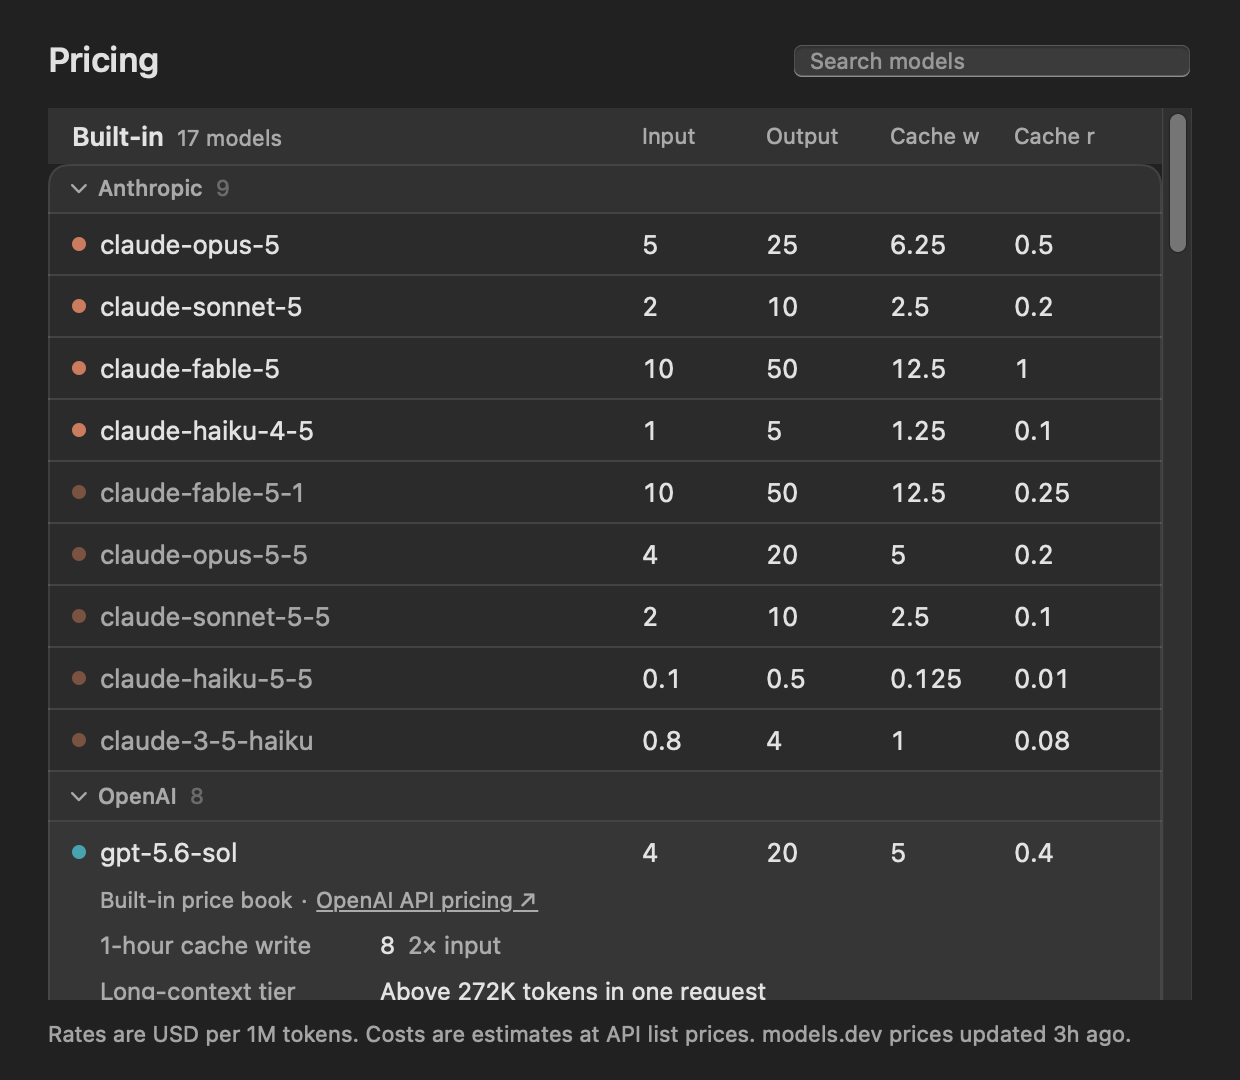
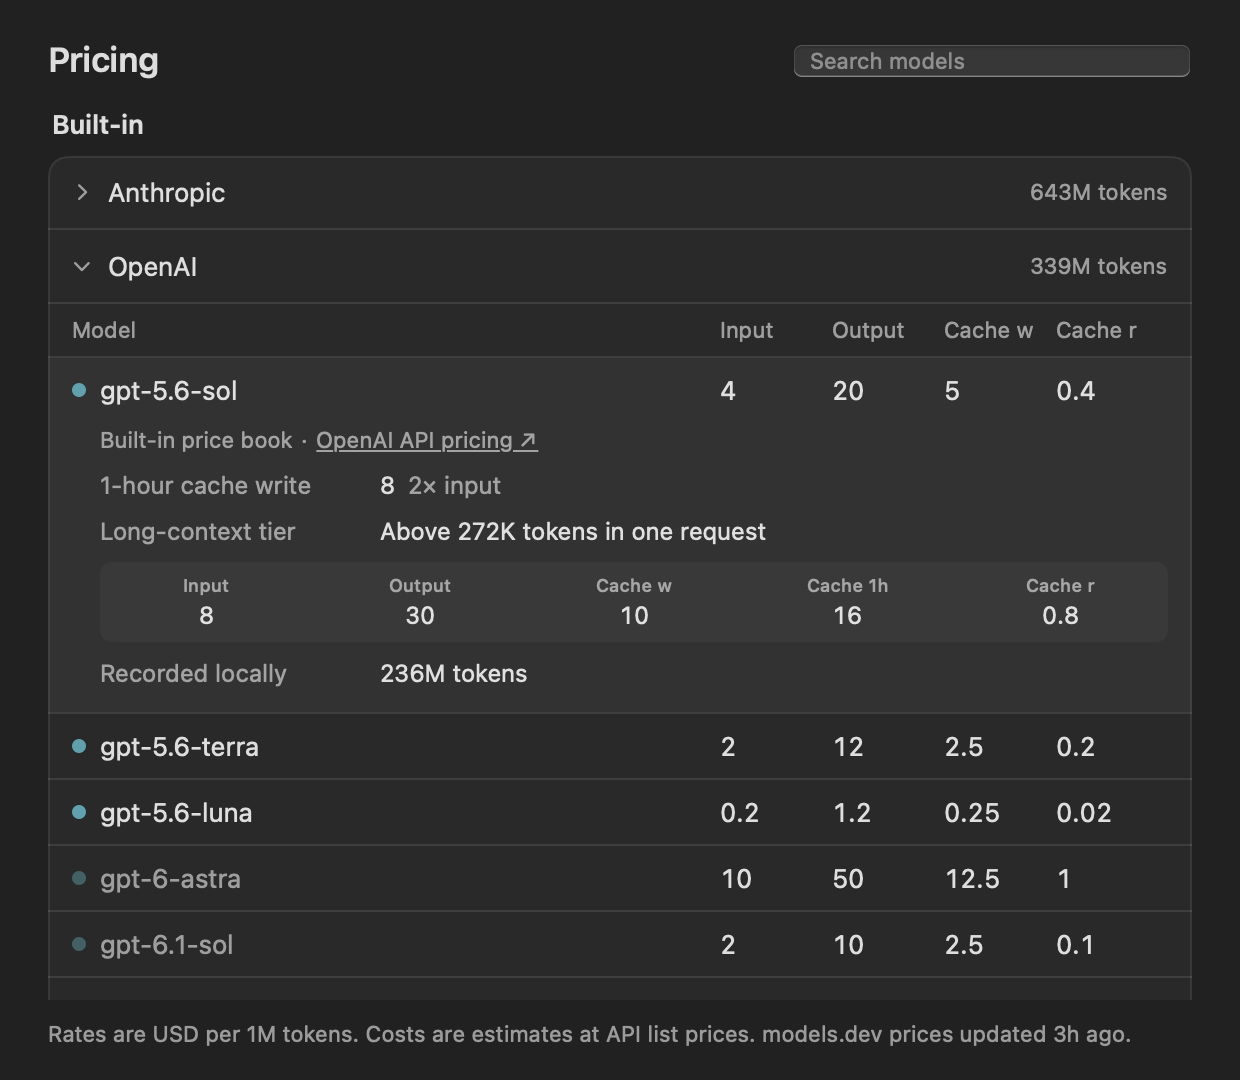
feat(settings): fold pricing vendors into titled source cards
The pinned source headers were square bands above rounded cards and
repeated empty rate columns once vendors were folded. Each source now
sits in one rounded card under a plain title, as General does, and rate
columns appear inside an open vendor. Vendors start folded each time
the pane opens, and the model counts are gone.

diff --git a/Sources/QuotaBarApp/PricingSettingsView.swift b/Sources/QuotaBarApp/PricingSettingsView.swift
@@ -16,7 +16,7 @@ struct PricingSettingsView: View {
     @Environment(\.accessibilityReduceMotion) private var reduceMotion
     @FocusState private var isTableFocused: Bool
 
-    private static let rateColumnWidth: CGFloat = 62
+    private static let rateColumnWidth: CGFloat = 56
     private static let detailLabelWidth: CGFloat = 132
     private static let claudePricingURL = URL(string: "https://platform.claude.com/docs/en/about-claude/pricing")!
     private static let openAIPricingURL = URL(string: "https://developers.openai.com/api/docs/pricing")!
@@ -38,20 +38,22 @@ struct PricingSettingsView: View {
             guard self.isLoadEnabled else { return }
             await self.model.load()
         }
+        .onChange(of: self.reload) { self.model.foldAll() }
     }
 
     // MARK: - Table
 
-    /// Stays pinned while its card scrolls, so the columns and the source stay in view.
-    private func sectionHeader(_ section: PricingSectionGroup) -> some View {
+    private func sectionTitle(_ section: PricingSectionGroup) -> some View {
+        Text(section.section.rawValue)
+            .font(.system(size: 13, weight: .semibold))
+            .padding(.leading, 2)
+    }
+
+    /// Names the rates of a vendor's rows, so a folded list carries no empty columns.
+    private var columnCaptions: some View {
         HStack(spacing: 0) {
-            HStack(alignment: .firstTextBaseline, spacing: 6) {
-                Text(section.section.rawValue)
-                    .font(.system(size: 13, weight: .semibold))
-                    .foregroundStyle(.primary)
-                Text(section.modelCountText)
-            }
-            .frame(maxWidth: .infinity, alignment: .leading)
+            Text("Model")
+                .frame(maxWidth: .infinity, alignment: .leading)
             ForEach(["Input", "Output", "Cache w", "Cache r"], id: \.self) { title in
                 Text(title)
                     .frame(width: Self.rateColumnWidth, alignment: .leading)
@@ -61,7 +63,6 @@ struct PricingSettingsView: View {
         .foregroundStyle(.secondary)
         .padding(.horizontal, 12)
         .padding(.vertical, 6)
-        .background(Color(nsColor: .windowBackgroundColor))
     }
 
     private func placeholder(@ViewBuilder content: () -> some View) -> some View {
@@ -88,14 +89,12 @@ struct PricingSettingsView: View {
                 ScrollViewReader { proxy in
                     ScrollView {
                         // Inside the scroll view so a classic scroll bar narrows both alike.
-                        LazyVStack(spacing: 0, pinnedViews: .sectionHeaders) {
-                            ForEach(sections) { section in
-                                Section {
-                                    self.sectionCard(section)
-                                        .padding(.bottom, 14)
-                                } header: {
-                                    self.sectionHeader(section)
-                                }
+                        LazyVStack(alignment: .leading, spacing: 0) {
+                            ForEach(Array(sections.enumerated()), id: \.element.id) { index, section in
+                                self.sectionTitle(section)
+                                    .padding(.top, index == 0 ? 0 : 18)
+                                    .padding(.bottom, 8)
+                                self.sectionCard(section)
                             }
                         }
                     }
@@ -125,6 +124,8 @@ struct PricingSettingsView: View {
                 if index > 0 { Divider() }
                 self.vendorHeader(vendor)
                 if self.model.isOpen(vendor) {
+                    Divider()
+                    self.columnCaptions
                     ForEach(vendor.rows) { row in
                         Divider()
                         self.tableRow(row)
@@ -143,26 +144,28 @@ struct PricingSettingsView: View {
             self.model.toggle(vendor)
             self.isTableFocused = true
         } label: {
-            HStack(spacing: 6) {
+            HStack(spacing: 8) {
                 Image(systemName: "chevron.right")
                     .font(.system(size: 9, weight: .semibold))
+                    .foregroundStyle(.secondary)
                     .rotationEffect(.degrees(isOpen ? 90 : 0))
                     .animation(DisclosureMotion.open(reduceMotion: self.reduceMotion), value: isOpen)
+                    .frame(width: 10)
                 Text(vendor.vendor)
-                    .fontWeight(.medium)
-                Text("\(vendor.rows.count)")
-                    .foregroundStyle(.tertiary)
-                    .monospacedDigit()
-                Spacer(minLength: 0)
+                    .font(.system(size: 13))
+                    .foregroundStyle(.primary)
+                Spacer(minLength: 8)
+                if vendor.usageTokens > 0 {
+                    Text("\(Formatters.tokens(vendor.usageTokens)) tokens")
+                        .font(.system(size: 11))
+                        .foregroundStyle(.secondary)
+                }
             }
-            .font(.system(size: 11))
-            .foregroundStyle(.secondary)
             .padding(.horizontal, 12)
-            .padding(.vertical, 5)
+            .frame(height: 36)
             .contentShape(Rectangle())
         }
         .buttonStyle(ControlFeedbackStyle(reduceMotion: self.reduceMotion, pressScale: CardMotion.rowPressScale))
-        .background(Color.primary.opacity(0.03))
         .disabled(self.model.isSearching)
         .accessibilityLabel("\(vendor.vendor), \(vendor.rows.count == 1 ? "1 model" : "\(vendor.rows.count) models")")
         .accessibilityValue(isOpen ? "Expanded" : "Collapsed")
@@ -200,7 +203,7 @@ struct PricingSettingsView: View {
                 }
                 .font(.system(size: 13))
                 .padding(.horizontal, 12)
-                .padding(.vertical, 7)
+                .padding(.vertical, 8)
                 .contentShape(Rectangle())
             }
             .buttonStyle(ControlFeedbackStyle(reduceMotion: self.reduceMotion, pressScale: CardMotion.rowPressScale))

diff --git a/Sources/QuotaBarApp/PricingTableModel.swift b/Sources/QuotaBarApp/PricingTableModel.swift
@@ -153,8 +153,6 @@ struct PricingSectionGroup: Identifiable, Equatable {
     let vendors: [PricingVendorGroup]
 
     var id: String { self.section.id }
-    var modelCount: Int { self.vendors.reduce(0) { $0 + $1.rows.count } }
-    var modelCountText: String { self.modelCount == 1 ? "1 model" : "\(self.modelCount) models" }
 }
 
 /// The order of the pricing list: within a vendor, the models the local logs spend tokens on,
@@ -224,8 +222,8 @@ final class PricingTableModel: ObservableObject {
     @Published var selectedRowID: String?
     /// Narrows the list by model name.
     @Published var searchText = ""
-    /// The vendors folded away, by `PricingVendorGroup.id`.
-    @Published private(set) var collapsedVendorIDs: Set<String> = []
+    /// The vendors opened, by `PricingVendorGroup.id`. Every vendor starts folded.
+    @Published private(set) var openVendorIDs: Set<String> = []
 
     private let costService: CostService
     private var rateCard = RateCard()
@@ -388,13 +386,19 @@ final class PricingTableModel: ObservableObject {
 
     /// A search opens every vendor, so a match is never folded away.
     func isOpen(_ vendor: PricingVendorGroup) -> Bool {
-        self.isSearching || !self.collapsedVendorIDs.contains(vendor.id)
+        self.isSearching || self.openVendorIDs.contains(vendor.id)
     }
 
     func toggle(_ vendor: PricingVendorGroup) {
-        if self.collapsedVendorIDs.remove(vendor.id) != nil { return }
-        self.collapsedVendorIDs.insert(vendor.id)
+        if self.openVendorIDs.insert(vendor.id).inserted { return }
+        self.openVendorIDs.remove(vendor.id)
         if vendor.rows.contains(where: { $0.id == self.selectedRowID }) { self.selectedRowID = nil }
+    }
+
+    /// Folds every vendor, which is how the pane opens.
+    func foldAll() {
+        self.openVendorIDs = []
+        self.selectedRowID = nil
     }
 
     /// The row the detail side shows: the one picked, or the top of the list until one is, or

diff --git a/Sources/QuotaBarTests/PricingListTests.swift b/Sources/QuotaBarTests/PricingListTests.swift
@@ -57,12 +57,15 @@ enum PricingListTests {
                             "a search that hides the picked row shows the first match instead")
 
         model.searchText = ""
+        Harness.expect(model.visibleRows.isEmpty, "every vendor starts folded")
         let anthropic = model.listSections[0].vendors[1]
         model.toggle(anthropic)
-        Harness.expect(!model.visibleRows.contains { $0.vendor == "Anthropic" && $0.section == .builtIn },
+        Harness.expect(model.visibleRows.contains { $0.model == "claude-sonnet-4" }, "toggling opens a vendor")
+        Harness.expect(!model.visibleRows.contains { $0.model == "claude-next" },
+                       "opening a vendor in one source leaves it folded in the others")
+        model.toggle(anthropic)
+        Harness.expect(!model.visibleRows.contains { $0.vendor == "Anthropic" },
                        "a folded vendor's rows leave the arrow keys' path")
-        Harness.expect(model.visibleRows.contains { $0.model == "claude-next" },
-                       "folding a vendor in one source leaves it open in the others")
         Harness.expect(model.selectedRowID == nil, "folding away the picked row clears the pick")
         model.searchText = "sonnet"
         Harness.expectEqual(model.visibleRows.map(\.model), ["claude-sonnet-4"],
@@ -70,6 +73,10 @@ enum PricingListTests {
         model.searchText = ""
         model.toggle(anthropic)
         Harness.expect(model.visibleRows.contains { $0.model == "claude-sonnet-4" }, "a second toggle opens it again")
+        model.selectedRowID = model.listRows.first { $0.model == "claude-sonnet-4" }?.id
+        model.foldAll()
+        Harness.expect(model.visibleRows.isEmpty, "opening the pane folds every vendor again")
+        Harness.expect(model.selectedRowID == nil, "folding everything clears the pick")
         model.selectedRowID = model.listRows.first { $0.model == "claude-sonnet-4" }?.id
 
         model.searchText = "claude-o"

diff --git a/Sources/QuotaBarApp/CardDump.swift b/Sources/QuotaBarApp/CardDump.swift
@@ -87,6 +87,9 @@ enum CardDump {
             let row = pricing.listRows.first { $0.rates?.thresholdTokens != nil && $0.usageTokens > 0 }
                 ?? pricing.listRows.first
             pricing.selectedRowID = row?.id
+            if let vendor = pricing.listSections.flatMap(\.vendors).first(where: { $0.rows.contains { $0.id == row?.id } }) {
+                pricing.toggle(vendor)
+            }
         }
         RunLoop.current.run(until: Date().addingTimeInterval(3))
         _ = loading

diff --git a/docs/design-implementation.md b/docs/design-implementation.md
@@ -8,7 +8,7 @@ How the menu bar card, its controls, and its motion behave, and how to check the
 - Cmd-R dispatches through a validated AppKit application command, Cmd-1 / Cmd-2 switch providers, Cmd-comma opens settings, and Escape closes the popover. Edit commands use the responder chain for normal text editing in settings.
 - Signed-out cards preserve the provider's reason and offer the correct CLI command, copy feedback, and a Check sign-in action. Copying a command does not execute it. Credentials and permission errors retain their separate recovery paths.
 - Refresh failures retain quota readings and show the last successful update near a warning. Server and local cooldowns jointly determine when retry is available. A local usage scan exposes its own progress, failure, and retry.
-- Pricing is a read-only list of the rates every estimate uses. Built-in, models.dev, and Unpriced models each have their own card with a pinned header, and each card groups its models by vendor under a header that folds them away. A search opens every vendor.
+- Pricing is a read-only list of the rates every estimate uses. Built-in, models.dev, and Unpriced models each have their own titled card, and each card groups its models by vendor under a header that folds them away. Every vendor is folded each time the pane opens, an open vendor names the rate columns above its rows, and a search opens every vendor.
 - Data shows how much usage is saved and backs it up. Export writes a consistent copy of the database to a chosen file. Import merges a copy of the chosen file, so it only adds, and reports what it changed; it needs no confirmation.
 - Remote shows, for each host, the usage records its mirrored logs hold, how many of them are new, and the files and bytes copied. Claude messages are counted by key and Codex rollouts by session, so usage another log recorded first still counts as held but not as new. Records and new records are read from Recorded usage rather than from the sync, so a host whose logs hold no usage warns even though its sync succeeded.
 - Local usage has a visible Tokens / Cost selector and ten calendar date columns. Dates support whole-column pointer targets and keyboard selection. Model details are collapsed as a group; complete labels remain available to accessibility. Unit changes and refreshes preserve a still-valid date selection. Unpriced and partially priced usage have distinct labels; dates not covered by the last completed scan do not claim zero usage.

diff --git a/README.md b/README.md
@@ -236,7 +236,7 @@ While the window is open, QuotaBar scans every source's local logs once a minute
 
 ## Model prices
 
-Open **Settings → Pricing** to see the rates every estimate uses, in USD per million tokens. The table holds the current Claude and OpenAI API models from the price book and every other model found locally, priced from models.dev or unpriced, with each model's four main rates. Built-in, models.dev, and unpriced models sit in separate cards, each grouped by vendor; click a vendor to fold its models away. Within a vendor, models used on this Mac come first, busiest at the top; search narrows the list by name. Click a row to open its one-hour cache write rate, the long-context threshold and the rates above it, its recorded tokens, its source, and a link to the source's own price page. Use the Up and Down Arrow keys to move through the table.
+Open **Settings → Pricing** to see the rates every estimate uses, in USD per million tokens. The table holds the current Claude and OpenAI API models from the price book and every other model found locally, priced from models.dev or unpriced, with each model's four main rates. Built-in, models.dev, and unpriced models sit in separate cards, each grouped by vendor. Vendors start folded each time the pane opens; click one to show its models. Within a vendor, models used on this Mac come first, busiest at the top; search narrows the list by name. Click a row to open its one-hour cache write rate, the long-context threshold and the rates above it, its recorded tokens, its source, and a link to the source's own price page. Use the Up and Down Arrow keys to move through the table.
 
 <p align="center">
   <img src="docs/images/settings-pricing.png" width="620" alt="Read-only pricing list split into built-in and models.dev cards and grouped by vendor, with one model open to show its long-context tier">
